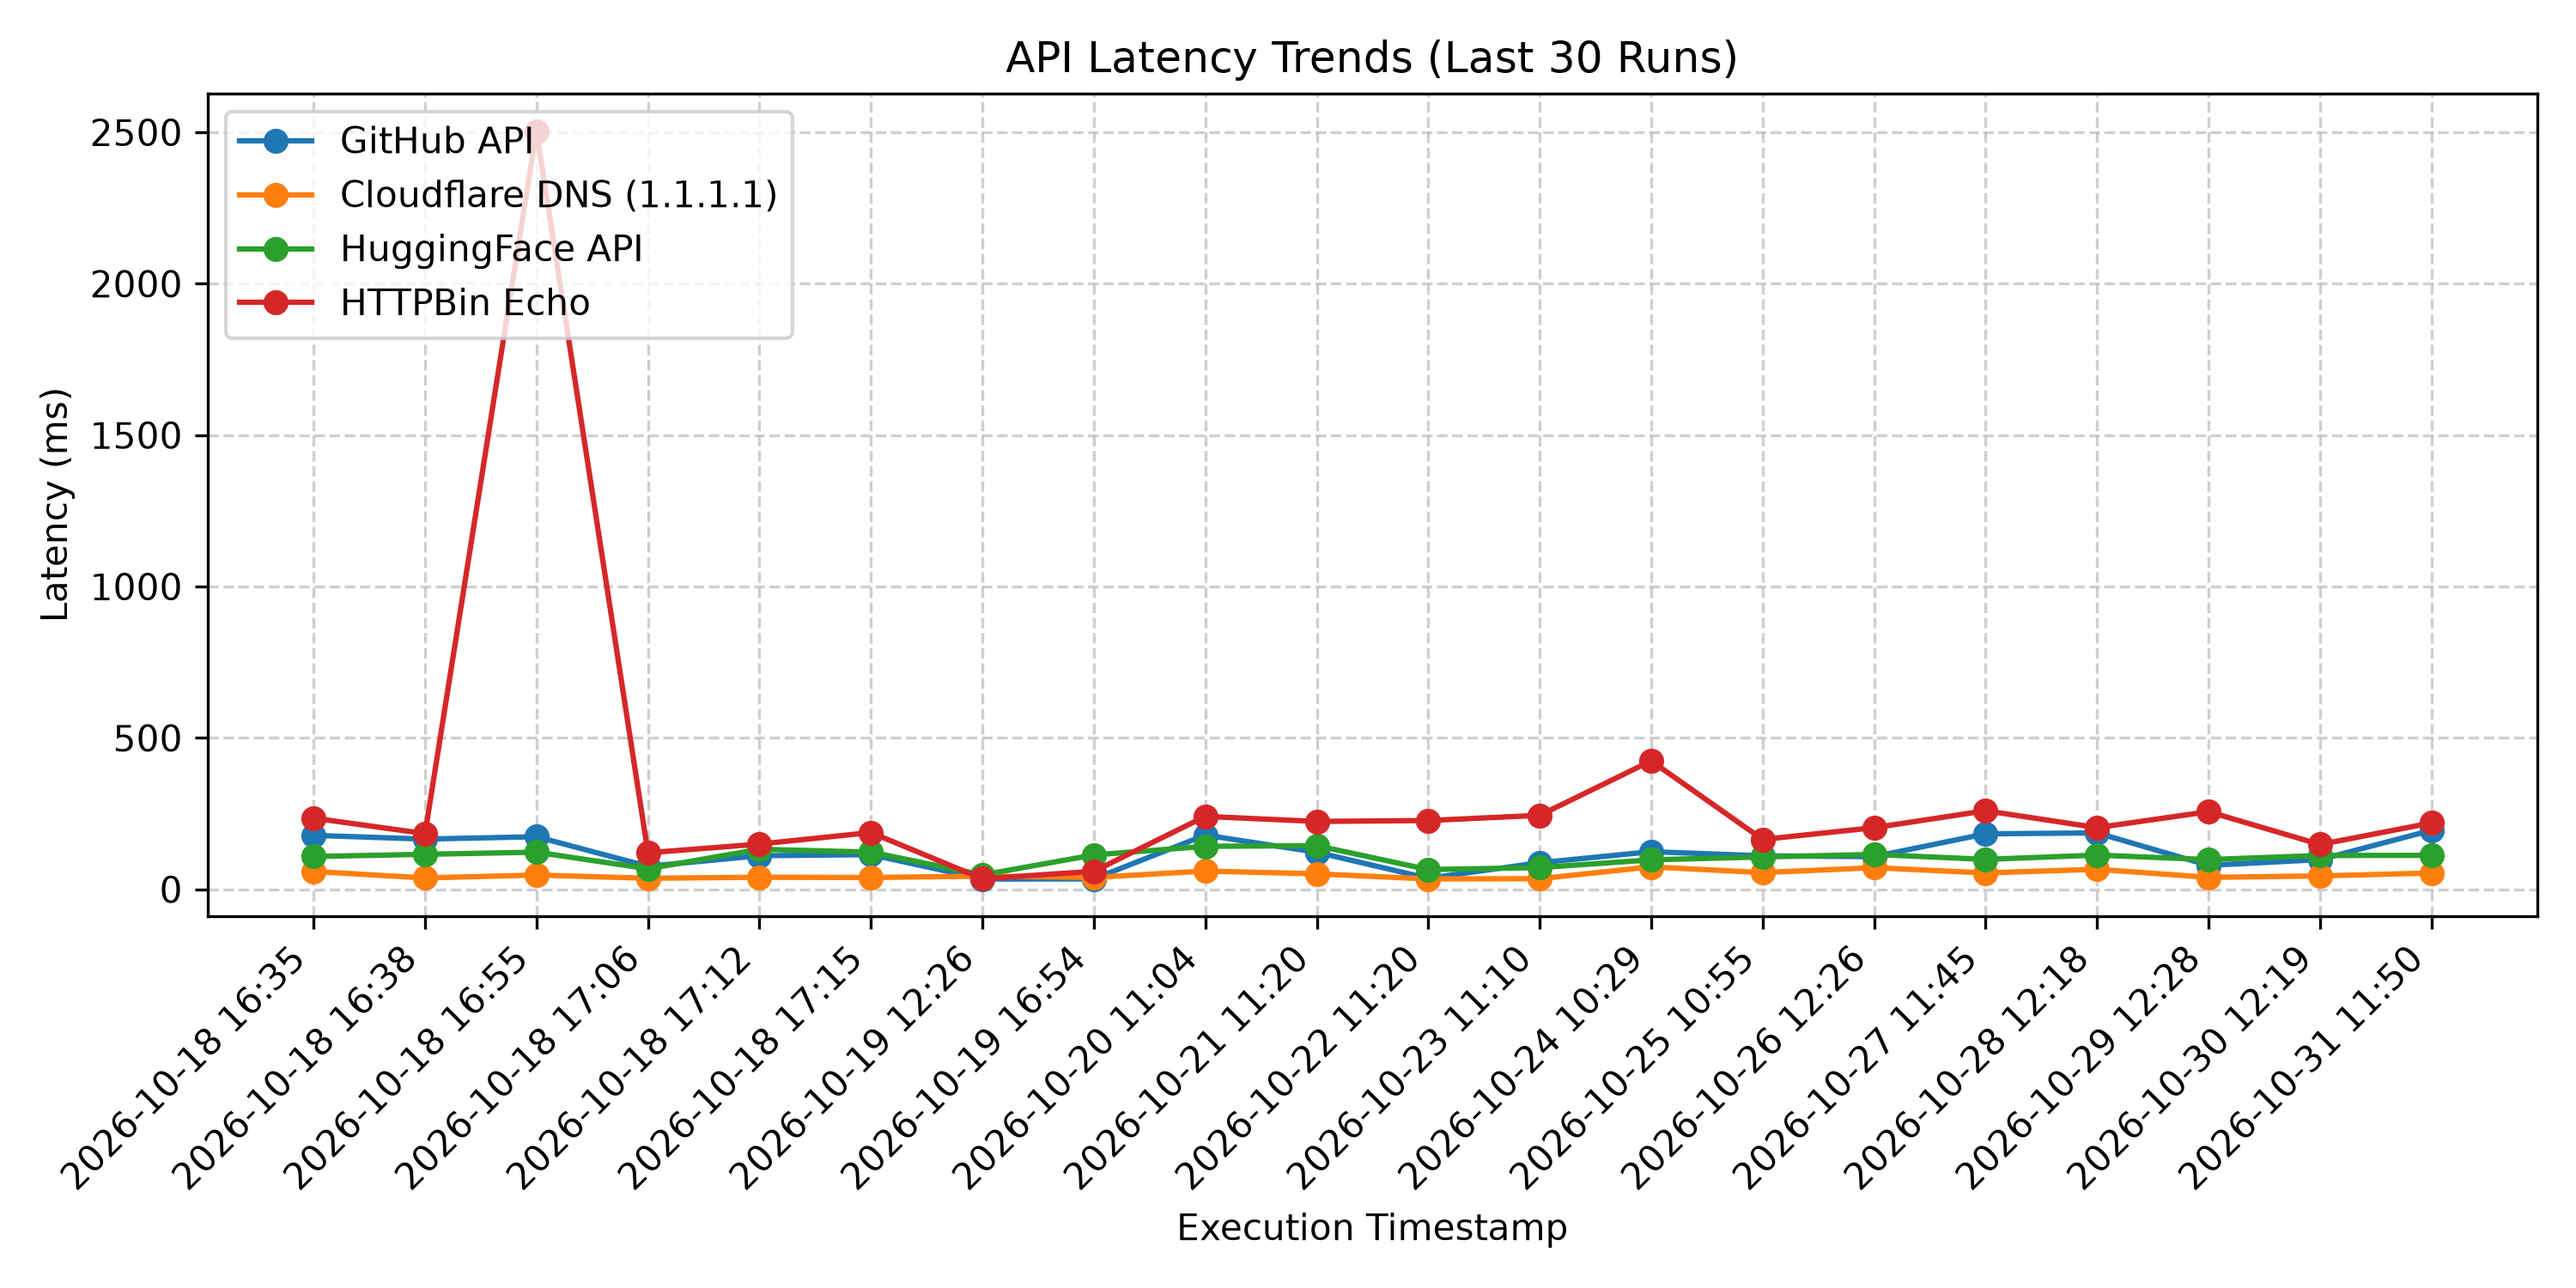
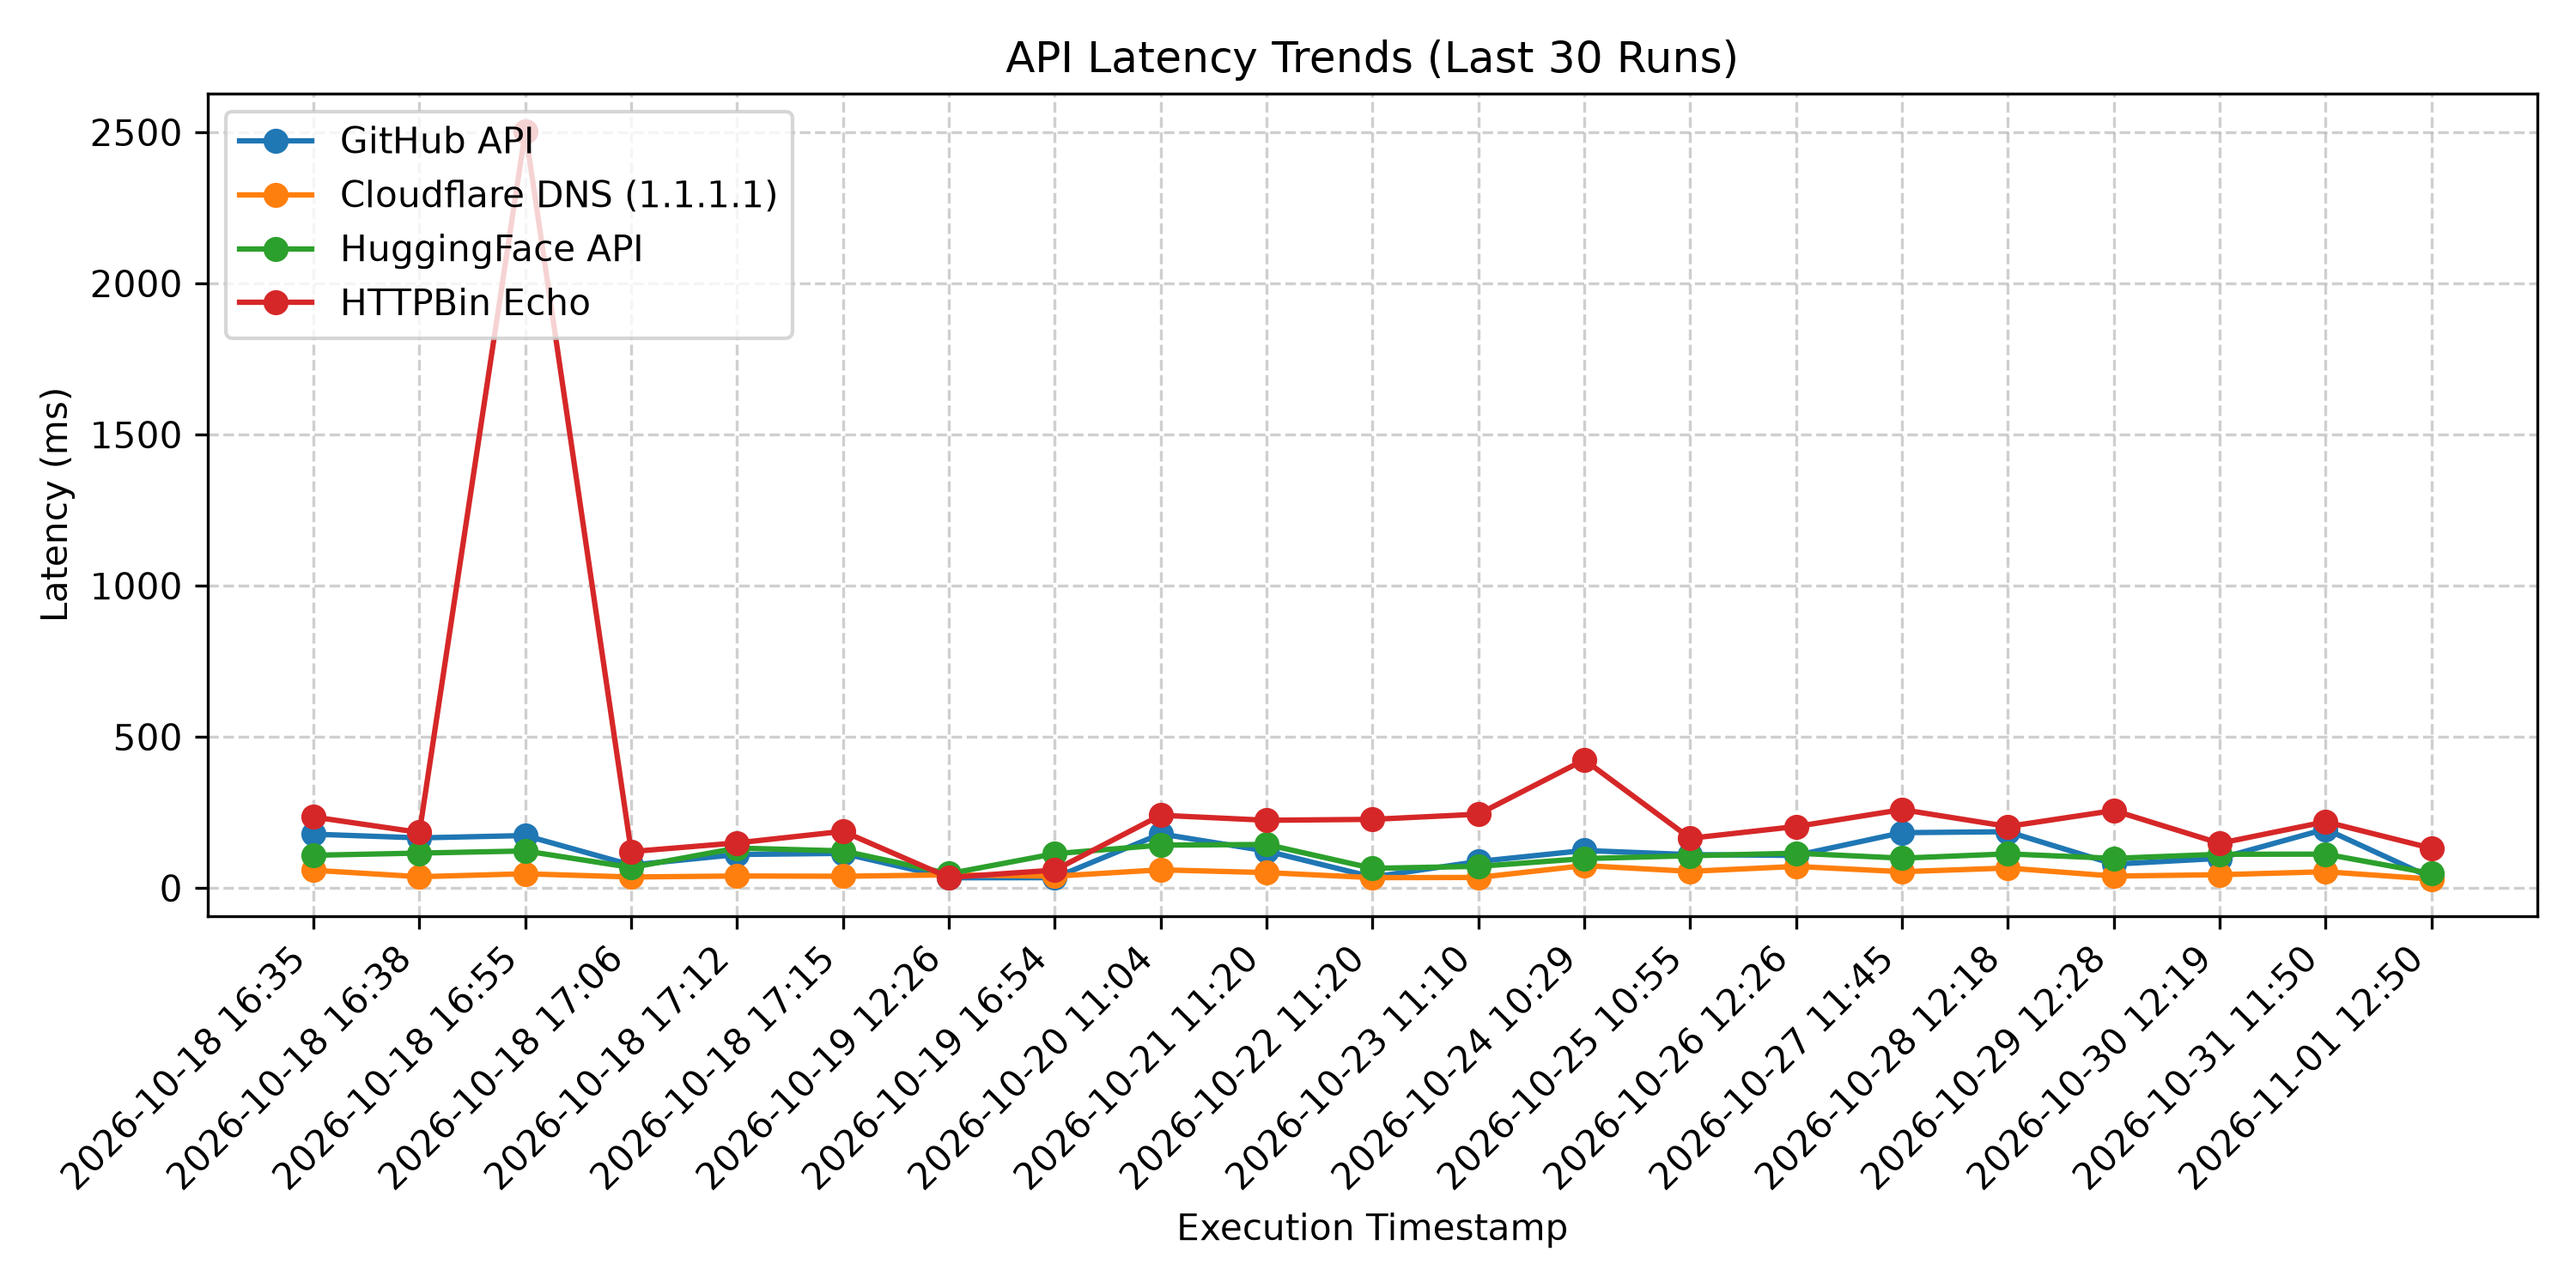
Automated update: API performance benchmarks & SLA metrics

Changed region(s): [[0.062, 0.736, 0.899, 0.92], [0.124, 0.092, 0.961, 0.7053]]

diff --git a/README.md b/README.md
@@ -1,6 +1,6 @@
 # 🌐 Automated Cloud API Observability & Benchmark Suite
 
-*Automated test execution timestamp:* **2026-10-31 11:50:18 UTC**
+*Automated test execution timestamp:* **2026-11-01 12:50:11 UTC**
 
 An automated reliability and performance testing engine that monitors core tech infrastructure APIs, logs round-trip response latencies, tracks P95 response SLA degradation, and records data directly into Git.
 
@@ -8,13 +8,13 @@ An automated reliability and performance testing engine that monitors core tech 
 
 | Service | Status | Current Latency | Avg Latency | P95 Latency | SLA Uptime |
 | :--- | :--- | :--- | :--- | :--- | :--- |
-| **GitHub API** | `200 OK` | `194.91 ms` | `119.94 ms` | `186.79 ms` | `95.0%` |
-| **Cloudflare DNS (1.1.1.1)** | `200 OK` | `53.95 ms` | `49.12 ms` | `71.7 ms` | `95.0%` |
-| **HuggingFace API** | `200 OK` | `112.26 ms` | `105.42 ms` | `142.13 ms` | `100.0%` |
-| **HTTPBin Echo** | `200 OK` | `219.32 ms` | `314.59 ms` | `528.14 ms` | `100.0%` |
+| **GitHub API** | `200 OK` | `33.96 ms` | `115.85 ms` | `186.36 ms` | `95.24%` |
+| **Cloudflare DNS (1.1.1.1)** | `200 OK` | `29.83 ms` | `48.2 ms` | `71.57 ms` | `95.24%` |
+| **HuggingFace API** | `200 OK` | `48.28 ms` | `102.7 ms` | `142.02 ms` | `100.0%` |
+| **HTTPBin Echo** | `200 OK` | `131.56 ms` | `305.87 ms` | `424.13 ms` | `100.0%` |
 
 ### 📊 Historical Latency Trend
-![Latency Trends](latency_trend.png?v=1793447420)
+![Latency Trends](latency_trend.png?v=1793537412)
 
 ---
 
